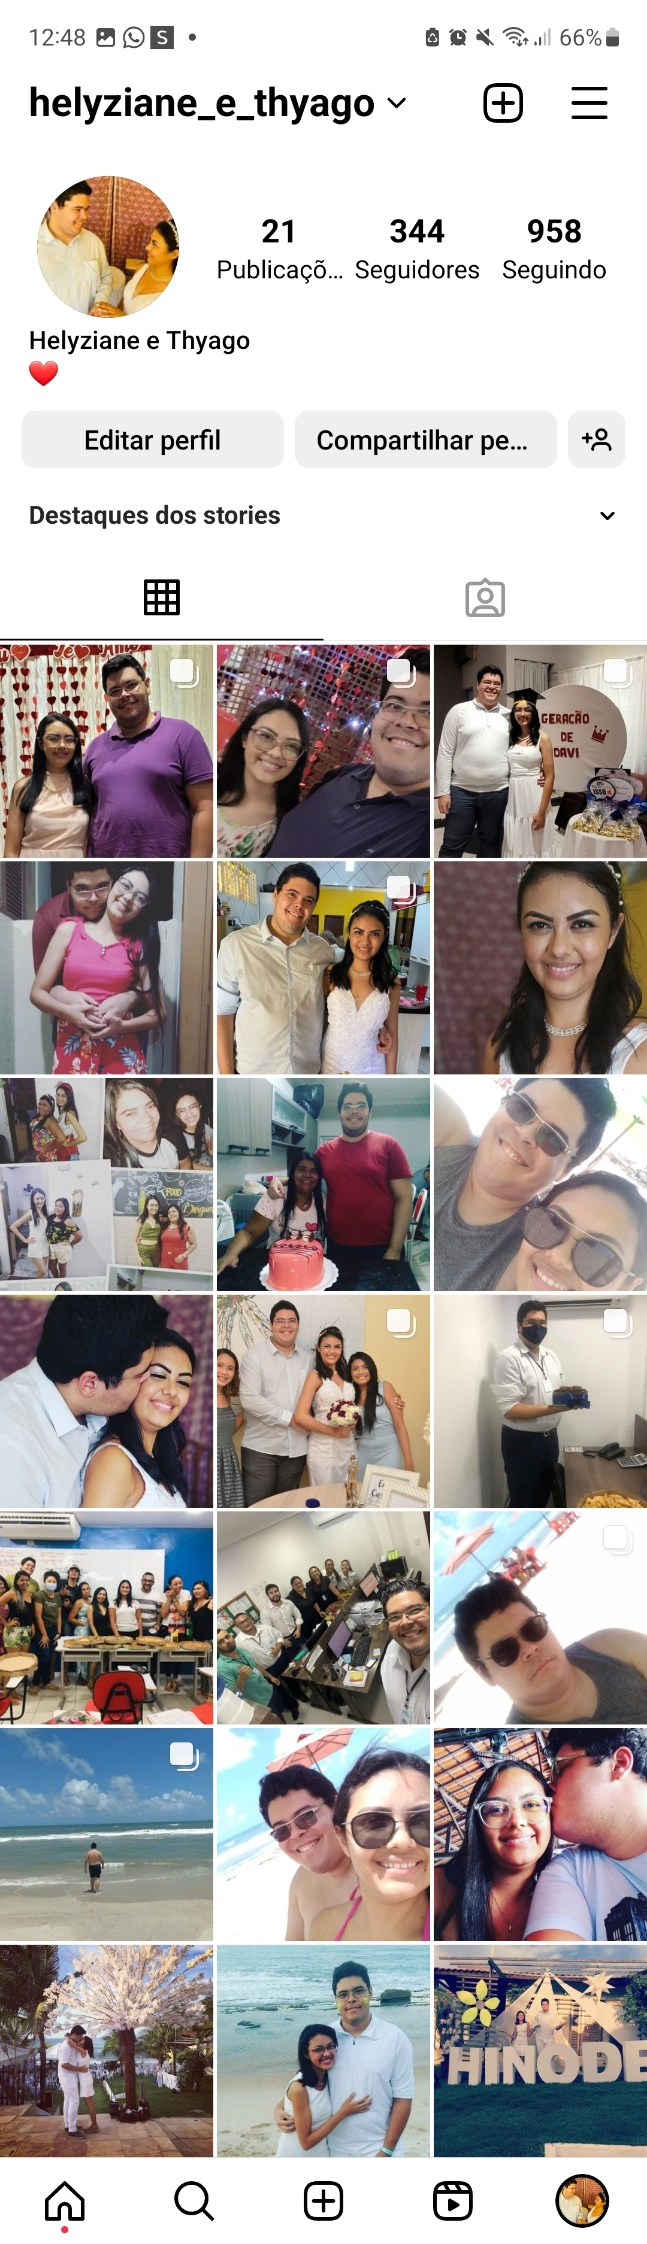
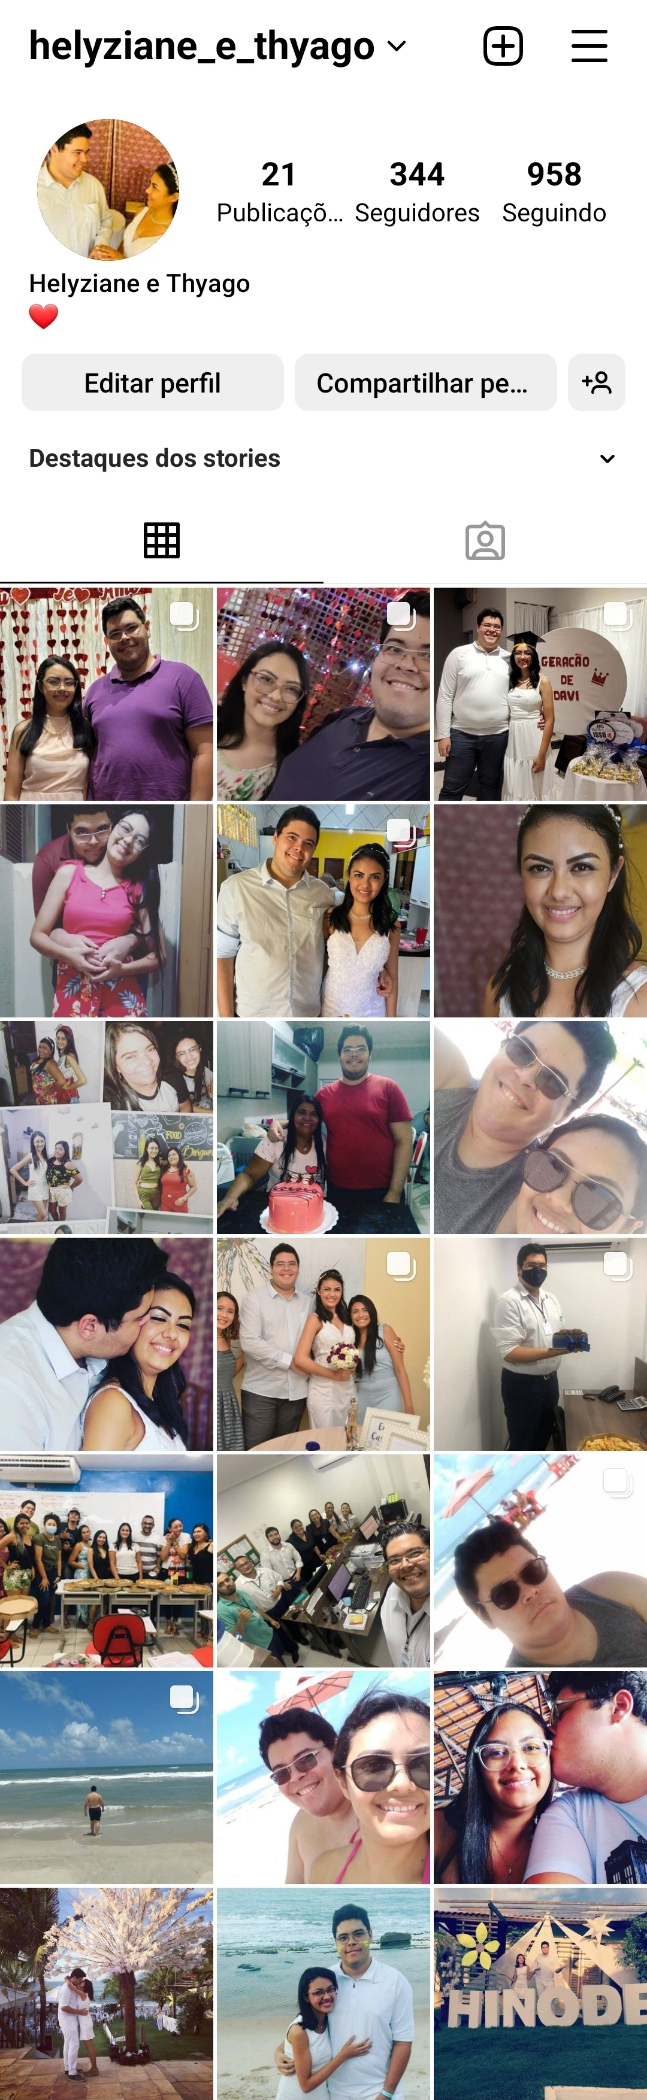
Atualizado com minha tela do github e instagram

diff --git a/redes/instagram.html b/redes/instagram.html
@@ -10,7 +10,7 @@
 </head>
 
 <body>
-    <img src="../imagens/tela-instagram.jpg" alt="Instagram">
+    <img src="../imagens/minha-tela-instagram.jpg" alt="Instagram">
     <a href="https://www.instagram.com/helyziane_e_thyago/" target="_blank">ACESSE</a>
 </body>
 

diff --git a/redes/github.html b/redes/github.html
@@ -10,7 +10,7 @@
 </head>
 
 <body>
-    <img src="../imagens/tela-github.jpg" alt="Github">
+    <img src="../imagens/minha-tela-github.jpg" alt="Github">
     <a href="https://github.com/ThyagoHolanda" target="_blank">ACESSE</a>
 </body>
 
